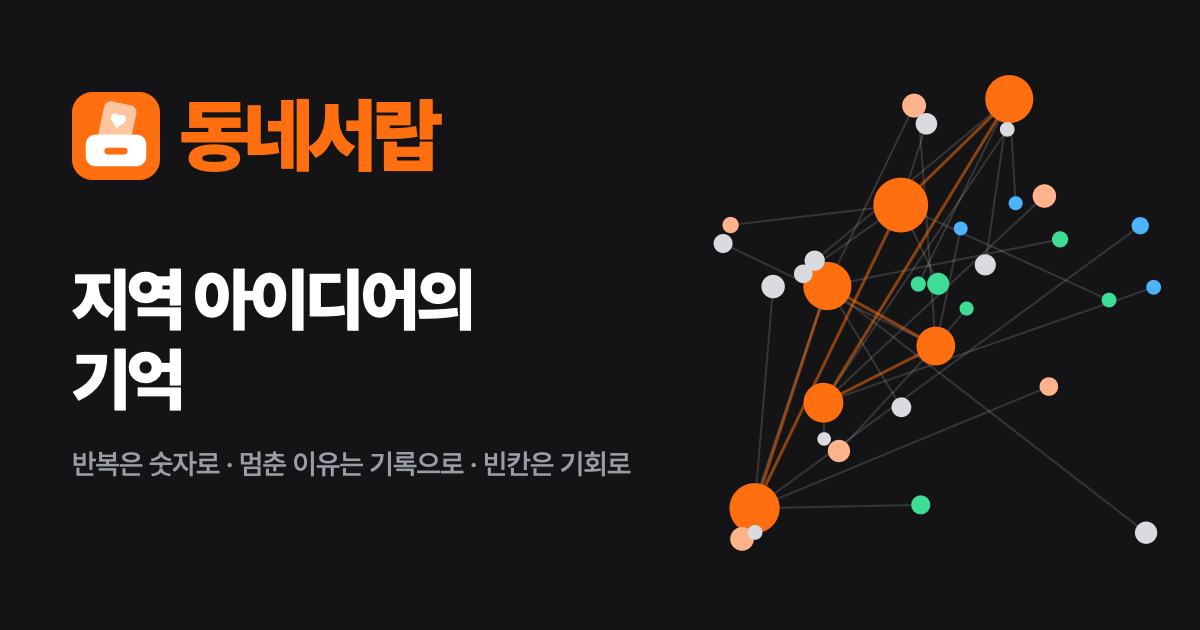
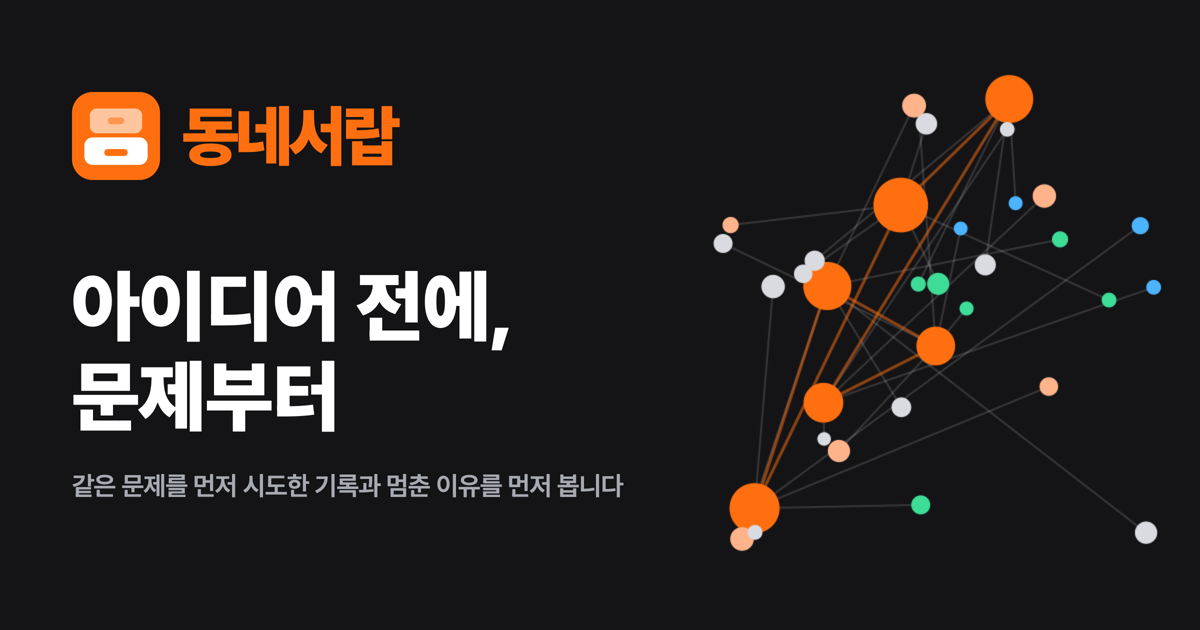
feat: 로고에서 하트를 빼고 서랍 두 칸 모양으로 바꿈
하트 카드가 들어간 로고가 서랍보다 소개팅 앱처럼 보였다.
'기록을 넣어 두는 서랍'이 바로 읽히도록 서랍 두 칸으로 바꾸고,
링크 소개 이미지도 새 로고와 한 줄 정의('아이디어 전에, 문제부터')로 다시 만들었다.

Changed region(s): [[0.0617, 0.4222, 0.5242, 0.8143], [0.1542, 0.1508, 0.37, 0.2714], [0.0617, 0.1508, 0.1233, 0.2714]]

diff --git a/public/brand/README.md b/public/brand/README.md
@@ -4,9 +4,9 @@
 
 | 파일 | 내용 | 쓰는 곳 |
 |---|---|---|
-| `mark.svg` | 살구·주황 그라데이션 둥근 사각형 위에 흰 서랍과 하트 카드 | 헤더 로고(`components/BrandMark.tsx`의 `BrandLogo`), 파비콘(`app/icon.tsx`) |
-| `glyph.svg` | 배경 없는 흰 서랍과 하트 카드 | 카드 워터마크·빈 화면(`BrandMark`), 홈 화면 아이콘(`app/apple-icon.tsx`, 그라데이션 위에 합성) |
+| `mark.svg` | 주황 둥근 사각형 위에 흰 서랍 두 칸(위 칸은 반투명) | 헤더 로고(`components/BrandMark.tsx`의 `BrandLogo`), 파비콘(`app/icon.tsx`) |
+| `glyph.svg` | 배경 없는 흰 서랍 두 칸 | 카드 워터마크·빈 화면(`BrandMark`), 홈 화면 아이콘(`app/apple-icon.tsx`, 그라데이션 위에 합성) |
 
 - 색: 당근 오렌지 `#ff6f0f` 단색. 앱의 `--primary`·`--brand-gradient`와 같은 값이다.
-- 그리드: 64×64. 두 파일의 서랍·카드 도형은 같은 좌표를 쓴다. 한쪽을 고치면 다른 쪽도 맞춘다.
+- 그리드: 64×64. 두 파일의 서랍 도형은 같은 좌표를 쓴다. 한쪽을 고치면 다른 쪽도 맞춘다.
 - 워드마크는 이미지가 아니라 Pretendard 900 텍스트에 같은 그라데이션을 입혀 쓴다.
